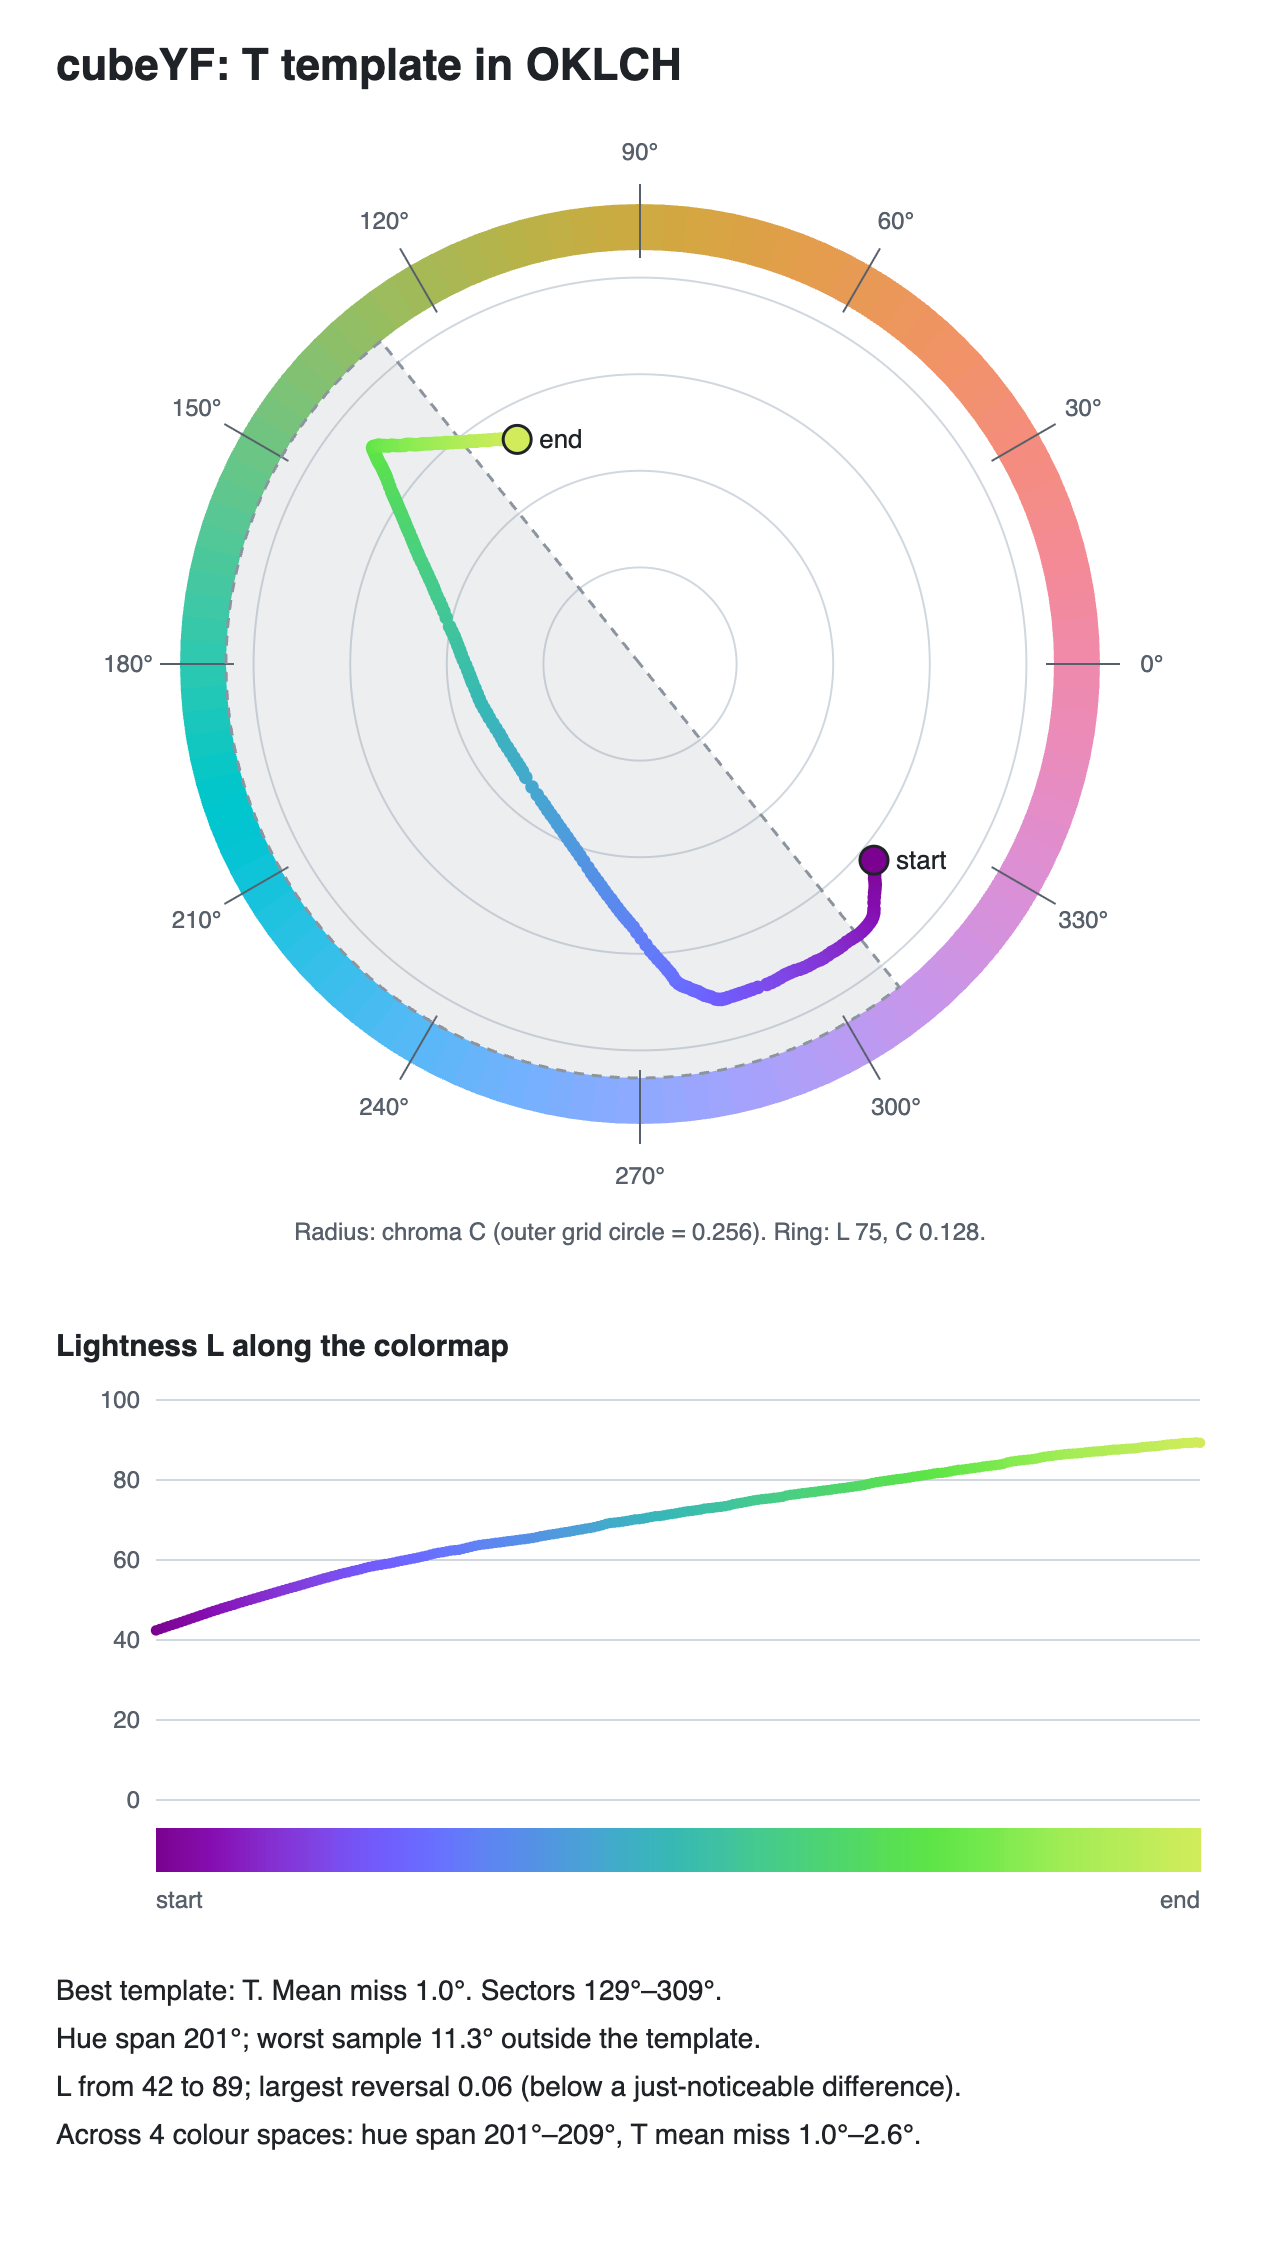
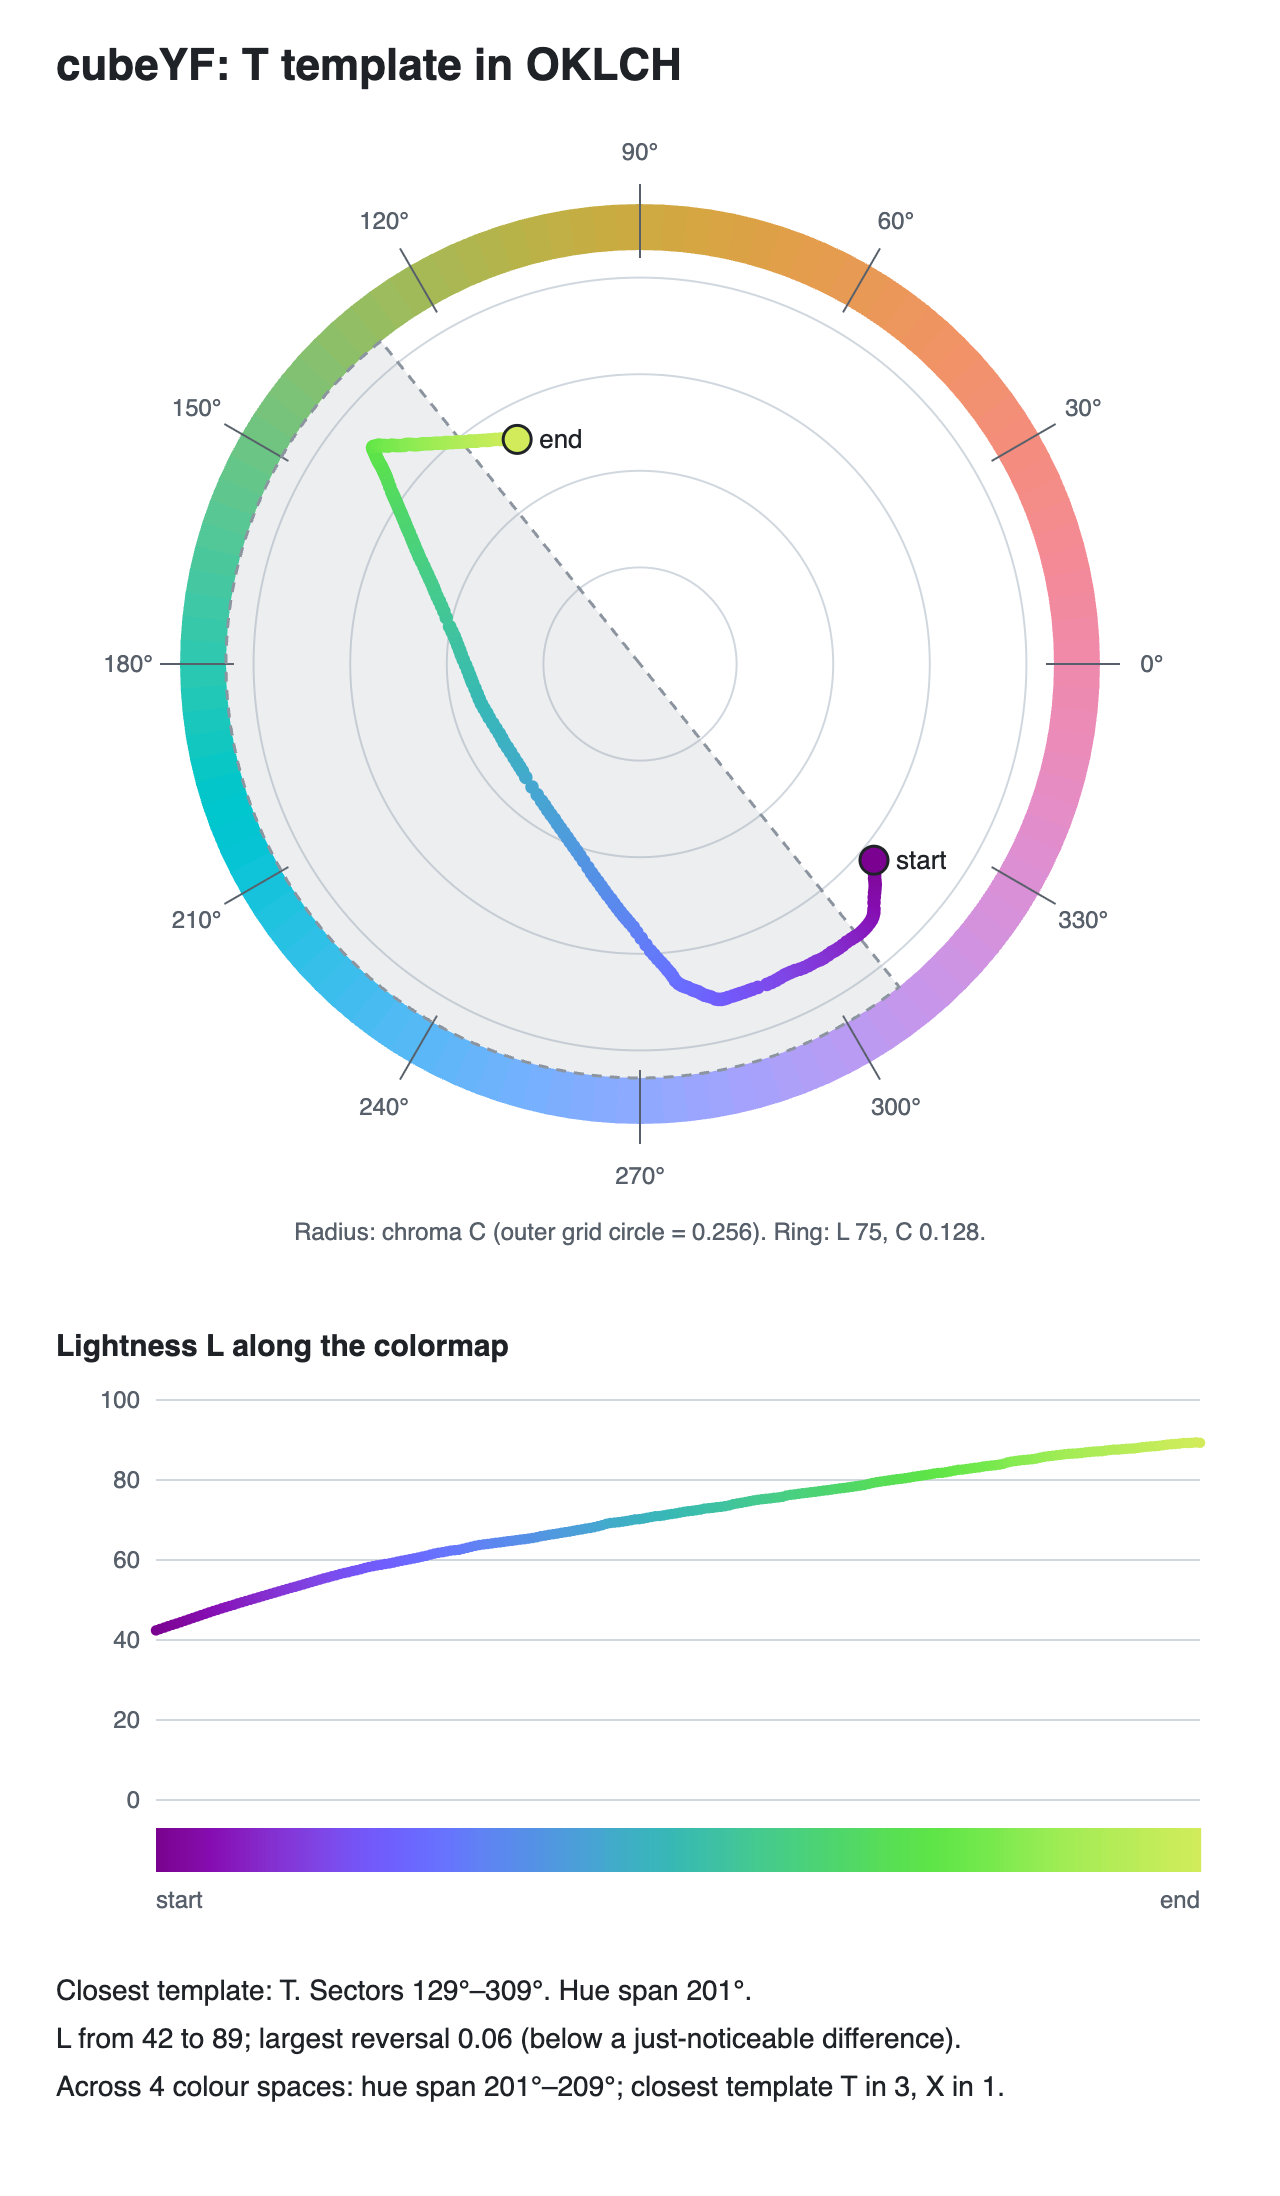
Colormaps: no harmony score; show template, hue span and lightness
A colormap blends its colours, and blends between two sectors of a template
cross the gap between them, so any score over the samples counts them as
misses. The colormap report and figure drop the cost, worst sample and mean
miss, and keep the closest template, its sectors, the hue span and the
lightness measures. The README describes cubeYF and cube1 by hue span
against T's 180 degrees, and shows how to start a palette from one colour and
a template with suggest.

diff --git a/src/perceptual_harmony/check.py b/src/perceptual_harmony/check.py
@@ -354,10 +354,6 @@ class ColormapReport:
             worst = max(worst, peak - v)
         return worst
 
-    @property
-    def worst_margin(self) -> float:
-        return min(m for m in self.margins if m is not None)
-
     def lightness_range_text(self, digits: int = 1) -> str:
         """'from A to B', plus any interior peak or low beyond the ends by more than a JND."""
         scale = self.space.l_scale
@@ -375,25 +371,23 @@ class ColormapReport:
         scale = sp.l_scale
         Ln = sp.axis_names[0]
         out = [f'{self.name or "Colormap"}: {len(self.hexes)} samples, {sp.label}', '',
-               'Template fits (cost = chroma-weighted mean hue deviation):']
+               'Templates, closest fit first:']
         for f in self.fits:
             mark = '*' if f.template is self.chosen.template else ' '
             secs = ', '.join(f'{a:.0f}-{b:.0f}' for a, b in f.sector_ranges())
-            out.append(f' {mark} {f.template.name}  rotation {f.rotation:6.1f}  cost {f.cost:6.2f} deg'
-                       f'  {"fits " if f.fits else "     "} sectors {secs}')
+            out.append(f' {mark} {f.template.name}  rotation {f.rotation:6.1f}  sectors {secs}')
         out += ['',
                 f'Hue span: {self.hue_span:.0f} degrees.',
-                f'Worst sample: {abs(self.worst_margin):.1f} degrees '
-                f'{"inside" if self.worst_margin >= 0 else "outside"} the {self.chosen.template.name} template.',
                 f'Lightness {Ln} {self.lightness_range_text()}; largest reversal '
                 f'{self.lightness_reversal * scale:.2f} (rough just-noticeable dE: {sp.jnd * scale:g}).']
         if self.robustness:
-            t = self.chosen.template.name
-            out += ['', f'Robustness: the {t} template refitted in each colour space:']
+            out += ['', 'In each colour space of the robustness check:']
             for r in [self] + self.robustness:
-                wm = r.worst_margin
-                out.append(f'   {r.space.label:13} hue span {r.hue_span:4.0f} deg  cost {r.chosen.cost:6.2f} deg  '
-                           f'worst {abs(wm):5.1f} deg {"in " if wm >= 0 else "out"}  best: {r.fits[0].template.name}')
+                out.append(f'   {r.space.label:13} hue span {r.hue_span:4.0f} deg  '
+                           f'closest template: {r.fits[0].template.name}')
+        out += ['', 'No harmony score: a colormap blends its colours, and blends between two sectors',
+                'of a template cross the gap between them. To judge the colours it is built from,',
+                'check its key colours as a palette.']
         return '\n'.join(out)
 
 

diff --git a/src/perceptual_harmony/svg.py b/src/perceptual_harmony/svg.py
@@ -222,7 +222,7 @@ def render_colormap_svg(report: ColormapReport, title: str = '', layout: str = '
     W, H = 1180, 640
     cx, cy, R = 320, 330, 230
     if narrow:
-        W, H, cy = 640, 1122, 332
+        W, H, cy = 640, 1098, 332
     ring_in, plot_r = R * 0.9, R * 0.84
     cmax = max(C for _, C, _ in report.lch) / 0.9
     scale = sp.l_scale
@@ -292,23 +292,22 @@ def render_colormap_svg(report: ColormapReport, title: str = '', layout: str = '
 
     # summary
     rev = report.lightness_reversal * scale
-    wm = report.worst_margin
     lines = [
-        (f'Best template: {fit.template.name}' if fit.template is report.fits[0].template else
-         f'Template: {fit.template.name} (best fit: {report.fits[0].template.name})')
-        + f'. Mean miss {fit.cost:.1f}°. Sectors '
-        + ', '.join(f'{a:.0f}°–{b:.0f}°' for a, b in fit.sector_ranges()) + '.',
-        f'Hue span {report.hue_span:.0f}°; worst sample {abs(wm):.1f}° '
-        f'{"inside" if wm >= 0 else "outside"} the template.',
+        (f'Closest template: {fit.template.name}' if fit.template is report.fits[0].template else
+         f'Template: {fit.template.name} (closest: {report.fits[0].template.name})')
+        + '. Sectors ' + ', '.join(f'{a:.0f}°–{b:.0f}°' for a, b in fit.sector_ranges())
+        + f'. Hue span {report.hue_span:.0f}°.',
         f'{Ln} {report.lightness_range_text(0)}; largest reversal {rev:.2f} '
         f'({"none" if rev == 0 else ("below" if rev < sp.jnd * scale else "above") + " a just-noticeable difference"}).',
     ]
     if report.robustness:
         allr = [report] + report.robustness
         spans = [r.hue_span for r in allr]
-        costs = [r.chosen.cost for r in allr]
-        lines.append(f'Across {len(allr)} colour spaces: hue span {min(spans):.0f}°–{max(spans):.0f}°, '
-                     f'{fit.template.name} mean miss {min(costs):.1f}°–{max(costs):.1f}°.')
+        best = {}
+        for r in allr:
+            best[r.fits[0].template.name] = best.get(r.fits[0].template.name, 0) + 1
+        lines.append(f'Across {len(allr)} colour spaces: hue span {min(spans):.0f}°–{max(spans):.0f}°; '
+                     'closest template ' + ', '.join(f'{t} in {k}' for t, k in best.items()) + '.')
     for i, line in enumerate(lines):
         out.append(f'<text x="{px0 - 50}" y="{py1 + 100 + i * 24}" fill="{INK}" font-size="14">{escape(line)}</text>')
     out.append('</svg>')

diff --git a/README.md b/README.md
@@ -130,6 +130,14 @@ candidate. It ends with CSS custom properties, ready to paste:
 With `--cvd-safe`, each suggestion must also stay distinct from the palette, and from the
 other suggestions, under all three simulated dichromacies.
 
+To start a palette from scratch, give one colour and a template:
+
+```sh
+perceptual-harmony suggest '#30859e' -t X -n 4
+```
+
+The colour sits at the centre of one sector, and the suggestions fill the template around it.
+
 The suggestions are options to look at, not answers. Distance from the palette is one goal
 among several, and the designer's eye decides.
 
@@ -158,16 +166,18 @@ print(css_block(found))       # --new-1: oklch(...);  /* #hex */
 ```
 
 For a continuous colormap, `check_colormap` takes the ordered samples (hex strings or sRGB
-triples in 0–1). It reports the template fit, the hue span and the largest fall in lightness.
-`render_colormap_svg` draws the samples as a path on the wheel, next to their lightness profile.
-Both report the same measures in the other spaces of the robustness check.
+triples in 0–1). It reports the closest template and its sectors, the hue span and the lightness
+profile: the range, any interior peak or low, and the largest fall. `render_colormap_svg` draws
+the samples as a path on the wheel, next to their lightness profile. Both give the same
+measures in the other spaces of the robustness check.
 
-The fit uses every sample, so the blends between a colormap's key colours count too. Moving
-from one sector of a template to another crosses the gap between them, so a colormap blended
-from harmonious colours can land outside a two-sector template where they meet. Windmill's five
-colours fit X exactly as a palette; blended in OKLab into a colormap (ordered by lightness), the
-stretches between them are outside X by up to 40° in OKLCH. To judge the harmony of the colours a colormap is built from, check its
-key colours as a palette with `check`.
+There is no harmony score for a colormap. A colormap blends its colours, and a blend from one
+sector of a template to another crosses the gap between them, so any score over the samples
+counts the blends as misses. Windmill's five colours fit X exactly as a palette; blended in OKLab
+into a colormap (ordered by lightness), the stretches between them are outside X by up to 40° in
+OKLCH. The wheel shows where the path runs, and the hue span says how wide it is. To judge the
+colours a colormap is built from, check its key colours as a palette with `check`. Lightness is
+different: a colormap should be perceptually ordered, so its lightness is measured.
 
 ## Method
 
@@ -368,11 +378,9 @@ rainbow colormap built in CIELAB with a monotonic lightness profile (see
 T template rotated by 180 degrees", "also exceeding a bit 180 degrees". The tool now puts numbers
 on that.
 
-- In OKLCH and CAM02-UCS the best template is T, with a mean miss of about 1°. The hues span
-  201° and 206°: a little more than the 180° of T.
-- In CIELCh the hues span 209°, and X fits slightly better than T.
-- Across the four spaces of the robustness check, the hues span 201–209° and T misses by 1.0–2.6°
-  on average.
+- The hues span 201° in OKLCH, 206° in CAM02-UCS and 209° in CIELCh: a little more than the 180°
+  of T, as the post said. T is the closest template in OKLCH and CAM02-UCS, X in CIELCh.
+- Across the four spaces of the robustness check, the hues span 201–209°.
 - Lightness rises at every step except a fall of 0.12 L\* near the bright end, far below a
   just-noticeable difference. In CIELAB it runs from L\* 30 to 89.
 
@@ -380,19 +388,18 @@ The same post offered cube1 as an alternative with "a slightly superior visual h
 "due to the addition of a red-like color at the high lightness end", "at the cost of a modest
 deviation from 100% perceptual". The numbers show the trade:
 
-- cube1's hues span 273° in OKLCH (269° in CIELCh), 60–70° more than cubeYF's. X fits best in
-  all three spaces; T misses by 6–8° on average. Across the four robustness spaces the span is
-  266–282°, so no space brings cube1 within T.
+- cube1's hues span 273° in OKLCH (269° in CIELCh), 60–70° more than cubeYF's and far beyond
+  the 180° of T. Across the four robustness spaces the span is 266–282°.
 - Lightness rises to a peak of L\* 89 at the yellow-green and then falls to 71 at the orange end. That
   fall of 18 L\* is where cube1 departs from a monotonic profile.
 
 The same post also placed jet in a T template; its hues span 235° in OKLCH, and its lightness
-rises and falls by 58 points. The post's comparison also included an industry spectrum
-colormap. Matplotlib's `nipy_spectral`, a similar spectrum (called `spectral` before matplotlib
-2.0), stands in for it here. It is also the spectral colormap that the *Leading Edge* tutorial
-(Niccoli 2014, see [Background](#background)) takes apart. Its hues span 298–318° across the four spaces, and its lightness
-rises and falls several times, by up to 50 L\*. For a colormap, harmony is a secondary property:
-the lightness profile comes first. So each figure shows both.
+rises and falls by 58 points. The post's comparison also included an industry spectrum colormap.
+Matplotlib's `nipy_spectral`, a similar spectrum (called `spectral` before matplotlib 2.0),
+stands in for it here. It is also the spectral colormap that the *Leading Edge* tutorial
+(Niccoli 2014, see [Background](#background)) takes apart. Its hues span 298–318° across the
+four spaces, and its lightness rises and falls several times, by up to 50 L\*. For a colormap,
+harmony is a secondary property: the lightness profile comes first. So each figure shows both.
 
 | cubeYF | cube1 |
 |---|---|
